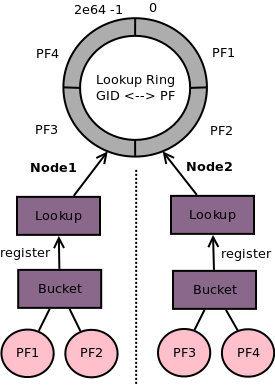
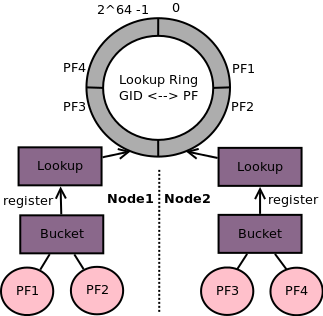
OPT Slide fussions and diagrams enlarged

diff --git a/slides.tex b/slides.tex
@@ -53,11 +53,9 @@
         \end{column}
         \begin{column}[c]{0.7\textwidth}
             \begin{itemize}
-                \item Passionate Erlang Developer
-                \item Testing Enthusiast
-                \item Development Process Caretaker
-                % \item Triumph Rider
-                % XXX Picture with the bike
+                \item Passionate Erlang developer
+                \item Testing enthusiast
+                \item Love beautiful code!
             \end{itemize}
         \end{column}
     \end{columns}
@@ -125,20 +123,20 @@
 
 \begin{frame}{Our Ambition}
     \begin{columns}
-        \begin{column}[c]{0.6\textwidth}
+        \begin{column}[c]{0.5\textwidth}
             \begin{itemize}
                 \item Transparent sharding layer
-                \item Sharding based on data ownership
-                \item High Availability
+                \item Sharding on data ownership
+                \item High availability
                 \item Centralized caching layer
                 \item Storage engine agnostic
-                \item Strict data model defined in one place
-                \item Changing storage shouldn't affect business
-                \item Ability to scale geographically
+                \item One strict data model
+                \item Transparent storage changes
+                \item Scaling geographically
             \end{itemize}
         \end{column}
-        \begin{column}[c]{0.4\textwidth}
-            \includegraphics[width=0.9\textwidth]{images/newstorageusage.png}
+        \begin{column}[c]{0.5\textwidth}
+            \includegraphics[width=\textwidth]{images/newstorageusage.png}
         \end{column}
     \end{columns}
 \end{frame}
@@ -149,9 +147,9 @@
 
 \begin{frame}{Mindset}
     \begin{itemize}
-        \item Always available
-        \item No global locks
-        \item Inconsistencies are the norm
+        \item Be Always available
+        \item Avoid global locks
+        \item Embrace inconsistencies
             \begin{itemize}
                 \item Hardware breaks down (power failures)
                 \item Version mismatches (upgrading system not atomic)
@@ -167,7 +165,7 @@
                 \item Largely generated OTP applications
                 \item Offer a CRUD-like interface (with filters)
             \end{itemize}
-        \item \textbf{GID}s identify the data owner
+        \item \textbf{GID}s (64 bits) identify the data owner
             \begin{itemize}
                 \item user
                 \item game
@@ -187,7 +185,7 @@
     \begin{itemize}
         \item Speed > Consistency
         \item Losing some updates in case of crash is affordable
-        \item Destructive operations act first on cache and eventually on disk
+        \item Act first on cache and then on disk
         \item No warranties of eventual consistency upon crashes
             \begin{itemize}
                 \item i.e. Activity feeds
@@ -200,7 +198,7 @@
     \begin{itemize}
         \item Consistency is key and confirmation is required
         \item Dealing with critical data
-        \item Destructive operations act on disk and, upon success, on cache
+        \item Persist data and, upon success, update cache
             \begin{itemize}
                 \item i.e. Payments
                 \item i.e. Personal Information
@@ -217,37 +215,39 @@
 
 \begin{frame}{System Components}
     \begin{columns}
-        \begin{column}[c]{0.6\textwidth}
+        \begin{column}[c]{0.5\textwidth}
             \begin{itemize}
-                \item \textbf{lookup} application \& lookup \textbf{hashing ring}
-                \item \textbf{Buckets} register their \textbf{PF}s in the local lookup application
-                \item The hashing ring is a distributed mnesia table:
-                    \begin{itemize}
-                        \item ram\_copies
-                        \item dirty reads
-                        \item transactional writes
-                    \end{itemize}
+                \item \textbf{lookup} application in all nodes.\\
+                      Uses a \textbf{hashing ring} (mnesia):
+                            \begin{itemize}
+                                \item replicated in all nodes
+                                \item ram\_copies
+                                \item dirty reads
+                                \item transactional writes
+                            \end{itemize}
+                \item \textbf{Buckets} register \textbf{PF}s in lookup
             \end{itemize}
         \end{column}
-        \begin{column}[c]{0.4\textwidth}
-            \includegraphics[height=0.7\textheight]{images/components.png}
+        \begin{column}[c]{0.5\textwidth}
+            \includegraphics[height=0.75\textheight]{images/components.png}
         \end{column}
     \end{columns}
 \end{frame}
 
 \begin{frame}{Tracing Pessimistic Operations}
     \begin{columns}
-        \begin{column}[c]{0.6\textwidth}
+        \begin{column}[c]{0.5\textwidth}
+                    %TODO hat for the pow, remove actor
             \begin{enumerate}
-                \item Random SSP node receives request for bucket/GID
-                \item Node uses local lookup to find the PF
-                \item PF receives the original request
-                \item PF builds the job to be executed
-                \item If none, PF creates a pipeline for GID
-                \item PF queues the operation in pipeline for GID
+                \item Bucket/GID request in random SSP node
+                \item Local lookup to find the PF
+                \item PF receives request
+                \item PF builds job for the request
+                \item If none, PF creates Pipeline for GID
+                \item PF queues operation in Pipeline
             \end{enumerate}
         \end{column}
-        \begin{column}[c]{0.4\textwidth}
+        \begin{column}[c]{0.5\textwidth}
             \includegraphics[width=\textwidth]{images/tracingpessimistic.png}
         \end{column}
     \end{columns}
@@ -255,31 +255,29 @@
 
 \begin{frame}{Wait a minute\dots}
     \begin{columns}
-        \begin{column}[c]{0.05\textwidth}
-        \end{column}
-        \begin{column}[c]{0.3\textwidth}
-            \includegraphics[width=0.8\textwidth]{images/slow.png}
-        \end{column}
-        \begin{column}[c]{0.65\textwidth}
+        \begin{column}[c]{0.5\textwidth}
             \begin{itemize}
                 \item ``Why do we need pipelines?''
                 \item ``Sequential == Bottleneck !!!''
                 \item ``Don't you guys know Erlang is about \textbf{parallelizing} work?''
             \end{itemize}
         \end{column}
+        \begin{column}[c]{0.5\textwidth}
+            \includegraphics[width=0.8\textwidth]{images/slow.png}
+        \end{column}
     \end{columns}
 \end{frame}
 
 \begin{frame}{About Pipelines}
     \begin{itemize}
-        \item Drawbacks
+        \item \textbf{CONS}
             \begin{itemize}
-                \item For hotspots sequential (read) access is bad indeed.\\
-                    i.e. Retrieving game data for popular games
-                \item Optimization: read from cache outside the pipeline
+                \item Sequential (read) access for hotspots\\
+                    i.e. Popular games
+                \item Optimization: read from cache
             \end{itemize}
         \pause
-        \item Advantages
+        \item \textbf{PROS}
             \begin{itemize}
                 \item No need for storage engines to support global locks
                 \item A bucket can combine several engines
@@ -289,20 +287,7 @@
     \end{itemize}
 \end{frame}
 
-\subsection{Versions, Shards \& Migration}
-
-\begin{frame}{Code Versions}
-    \begin{itemize}
-        \item Code versions of a bucket determine the output seen by the clients
-        \item Clients must include the bucket definition in order to use an SSP bucket
-        \item Different code versions can work together
-            \begin{itemize}
-                \item Encoding/decoding all input/output
-                \item Changes are introduced as optional
-                \item Optional input/output slowly turned mandatory
-            \end{itemize}
-    \end{itemize}
-\end{frame}
+\subsection{Versions \& Shards}
 
 \begin{frame}{Schema Versions}
     \begin{itemize}
@@ -346,20 +331,19 @@
     \begin{itemize}
         \item ``Don't care where it is, just want my data!!!''
         \pause
+        \item \href{http://piqi.org}{PIQI} helps with the API
         \begin{columns}
-            \begin{column}[c]{0.6\textwidth}
-                    \begin{itemize}
-                        \item \href{http://piqi.org}{PIQI}
-                        \item Native erlang (+ Protocol Buffers)
-                        \item HTTP + JSON
-                        \item HTTP + Protocol Buffers
-                    \end{itemize}
+            \begin{column}[c]{0.3\textwidth}
+                \includegraphics[width=\textwidth]{images/piqi.png}
             \end{column}
-            \begin{column}[c]{0.4\textwidth}
-                \includegraphics[width=0.8\textwidth]{images/piqi.png}
+            \begin{column}[c]{0.6\textwidth}
+                \begin{itemize}
+                    \item Erlang client, bucket definition \& encoding/decoding
+                    \item HTTP + JSON
+                    \item HTTP + Protocol Buffers
+                \end{itemize}
             \end{column}
         \end{columns}
-        \item Protection against code versions!
     \end{itemize}
 \end{frame}
 
@@ -385,7 +369,6 @@
                     \end{itemize}
                 \item Satellite Datacenters
                     \begin{itemize}
-                        \item Can't own GIDs
                         \item Don't have persistent storage
                         \item Easy to setup and decommission
                     \end{itemize}
@@ -393,18 +376,6 @@
         \end{column}
         \begin{column}[c]{0.4\textwidth}
             \includegraphics[width=\textwidth]{images/worldmapdc.png}
-        \end{column}
-    \end{columns}
-\end{frame}
-
-\begin{frame}{Working With Multiple Datacenters}
-    \begin{columns}
-        \begin{column}[c]{0.1\textwidth}
-        \end{column}
-        \begin{column}[c]{0.8\textwidth}
-            \includegraphics[width=0.8\textwidth]{images/multidcops.png}
-        \end{column}
-        \begin{column}[c]{0.1\textwidth}
         \end{column}
     \end{columns}
 \end{frame}
@@ -425,6 +396,18 @@
     \begin{center}
         \includegraphics[width=0.7\textwidth]{images/scalingdcs3.png}
     \end{center}
+\end{frame}
+
+\begin{frame}{Working With Multiple Datacenters}
+    \begin{columns}
+        \begin{column}[c]{0.1\textwidth}
+        \end{column}
+        \begin{column}[c]{0.8\textwidth}
+            \includegraphics[width=0.8\textwidth]{images/multidcops.png}
+        \end{column}
+        \begin{column}[c]{0.1\textwidth}
+        \end{column}
+    \end{columns}
 \end{frame}
 
 \subsection{Disaster Scenarios}
